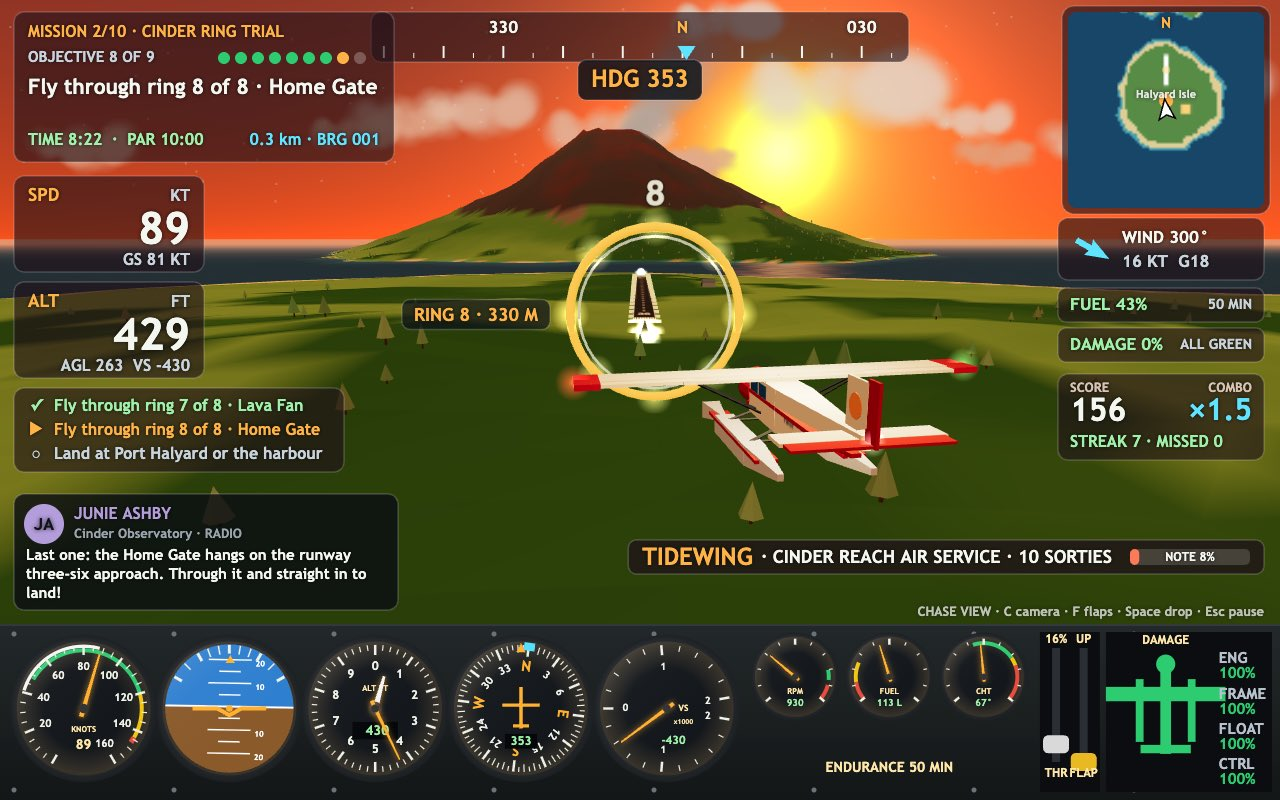
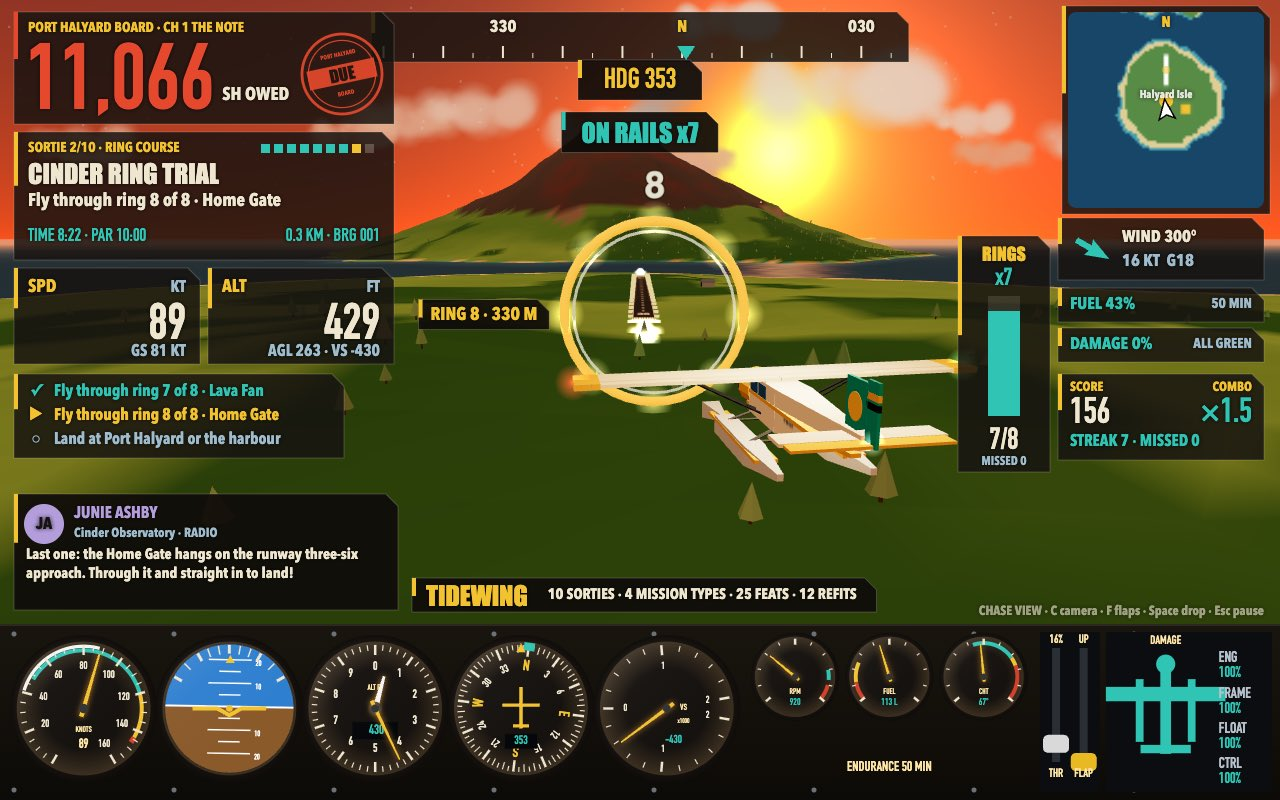
feat(sheet): cover, fire drop zone, medevac minimums and stamped receipt; README counts from data
- shots.json: four real renders, each a different mission type, every cell with a 84-104 px headline
- README rewritten; its counts line is written by tools/readmeCounts.mjs and checked by a test
- float hiss on the water, low-fuel chime, BINGO FUEL call

diff --git a/game/src/audio/soundEngine.js b/game/src/audio/soundEngine.js
@@ -1,5 +1,6 @@
 // All sound is made in code with WebAudio: the radial engine's drone and its rough
-// running, rushing wind that rises with airspeed, the stall horn, rain, the radio blip,
+// running, rushing wind that rises with airspeed, the float hiss on the water, the stall
+// horn, a low-fuel chime, rain, the radio blip,
 // splashes and thumps on touchdown, the ring chime and the crash. Starts on first input.
 
 export function makeSoundEngine() {
@@ -55,7 +56,17 @@ export function makeSoundEngine() {
     const horn = ctx.createOscillator(); horn.type = 'square'; horn.frequency.value = 440;
     const hGain = ctx.createGain(); hGain.gain.value = 0;
     horn.connect(hGain); hGain.connect(master); horn.start();
-    nodes = { master, o1, o2, eFilter, eGain, wFilter, wGain, hGain, lfo };
+    // float hiss: low noise that rises while the floats run on the water
+    const fSrc = ctx.createBufferSource();
+    fSrc.buffer = noiseBuffer(ctx, 2);
+    fSrc.loop = true;
+    const fFilter = ctx.createBiquadFilter();
+    fFilter.type = 'lowpass';
+    fFilter.frequency.value = 500;
+    const fGain = ctx.createGain(); fGain.gain.value = 0;
+    fSrc.connect(fFilter); fFilter.connect(fGain); fGain.connect(master);
+    fSrc.start();
+    nodes = { master, o1, o2, eFilter, eGain, wFilter, wGain, hGain, lfo, fGain, fFilter };
   };
 
   function burst(duration, freq, gain, type = 'lowpass') {
@@ -101,6 +112,12 @@ export function makeSoundEngine() {
     nodes.wGain.gain.setTargetAtTime(Math.min(0.35, (v / 60) ** 2 * 0.3), t, 0.15);
     nodes.wFilter.frequency.setTargetAtTime(300 + v * 22, t, 0.2);
     nodes.hGain.gain.setTargetAtTime(!paused && ac.stallWarn ? 0.06 : 0, t, 0.03);
+    const onWater = !paused && ac.onSurface && ac.surfaceKind === 'water';
+    nodes.fGain.gain.setTargetAtTime(onWater ? Math.min(0.4, ac.gs / 30 * 0.4) : 0, t, 0.08);
+    nodes.fFilter.frequency.setTargetAtTime(300 + (ac.gs ?? 0) * 25, t, 0.1);
+    // low fuel: a soft double chime every eight seconds while under 15%
+    const low = !paused && ac.fuel && ac.fuel.litres / ac.fuel.capacity < 0.15;
+    if (low && t - (se.lastChime ?? -99) > 8) { se.lastChime = t; tone(990, 0.18, 0.07); tone(740, 0.25, 0.07, 'sine', 0.2); }
   };
 
   se.event = (type) => {

diff --git a/game/src/feedback/liveCalls.js b/game/src/feedback/liveCalls.js
@@ -22,6 +22,8 @@ const MINIMUMS_FT = 300;
 /** Distance (m) to a fire, closing with water aboard, where the drop cue shows; and drop now. */
 const DROP_CUE_M = 450;
 const DROP_NOW_M = 120;
+/** Fuel share of the tank under which the bingo call shows. */
+const BINGO_FRAC = 0.15;
 
 /** The counters the feats read, kept on the mission. */
 export function newCallStats() {
@@ -101,6 +103,8 @@ export function callsFor(ms, ap) {
     const ball = slip < SLIP_CENTRED ? 'SLIP CENTERED' : `SLIP ${slip.toFixed(0)}° · RUDDER ${ac.beta > 0 ? 'RIGHT' : 'LEFT'}`;
     out.push({ text: `${slip < SLIP_CENTRED ? 'CLEAN TURN' : 'TURNING'} · ${Math.round(bank)}° BANK · ${ball}`, tone: slip < SLIP_CENTRED ? 'good' : 'warn' });
   }
+  const fuel = ac.fuel.litres / ac.fuel.capacity;
+  if (fuel < BINGO_FRAC) out.push({ text: `BINGO FUEL · ${Math.round(fuel * 100)}% · LAND AT THE NEAREST WATER`, tone: 'warn' });
   if (ms.score.ringStreak >= 2) out.push({ text: `ON RAILS x${ms.score.ringStreak}`, tone: 'good' });
   if (st.flashText && ms.t < st.flashUntil) out.push({ text: st.flashText, tone: 'good' });
   return out;

diff --git a/game/src/story/counts.js b/game/src/story/counts.js
@@ -25,3 +25,9 @@ export function scopeLine(missions) {
   const n = shipCounts(missions);
   return `${n.sorties} SORTIES · ${n.missionTypes} MISSION TYPES · ${n.feats} FEATS · ${n.refits} REFITS`;
 }
+
+/** The README's counts line, written by tools/readmeCounts.mjs. */
+export function readmeCountsLine(missions) {
+  const n = shipCounts(missions);
+  return `**${scopeLine(missions)}** · ${n.chapters} chapters · ${n.islands} islands`;
+}

diff --git a/README.md b/README.md
@@ -2,23 +2,42 @@
 [![rank](https://make.fun/badge/best-flight-game-20261126-0057/deranalabs/flight-game-20261126/rank.svg)](https://make.fun/bounty/best-flight-game-20261126-0057/leaderboard?utm_source=github&utm_medium=readme&utm_campaign=best-flight-game-20261126-0057)
 [![reward](https://make.fun/badge/best-flight-game-20261126-0057/deranalabs/flight-game-20261126/reward.svg)](https://make.fun/bounty/best-flight-game-20261126-0057?utm_source=github&utm_medium=readme&utm_campaign=best-flight-game-20261126-0057)
 
-# Tidewing: Cinder Reach Air Service
+# Tidewing: Port Halyard Air Service
 
-A bush floatplane flight game in the browser. You fly the Tern Mk II, an amphibious high-wing floatplane, for the islands of the Cinder Reach: a volcano, a ridge island, fishing villages, a lighthouse point and a far skerry, with a runway, a dirt strip on a ridge and marked water lanes.
+A floatplane pilot owes the Port Halyard Board 12,000 sh and flies contracts across the Cinder Reach to clear it before the season closes.
 
-Ten sorties, one file each under `game/src/missions/`: a mail drop run, a ring trial around the volcano, a medevac with soft-landing limits and a patient who feels every bump, a 380 m ridge strip, water bombing three spreading fires from a lagoon scoop run, a night lighthouse run through flare gates, a squall-line crossing on low fuel with an optional fuel stop, a dead-stick glide after the engine chokes on volcanic ash, a harbour board photo survey over the observatory, dock and fuel barge, and a low buoy slalom off Halyard Harbour.
+<!-- counts: written by `node tools/readmeCounts.mjs` from the game's own data; a test checks them -->
+**10 SORTIES · 4 MISSION TYPES · 25 FEATS · 12 REFITS** · 4 chapters · 6 islands
+<!-- /counts -->
 
-The flight model (`game/src/flight/flightModel.js`) has lift with a stall and wing drop, induced and parasite drag, flaps, thrust that fades with speed, control authority that grows with airspeed and prop wash, wind with gusts, storm downdrafts and rotor off the volcano, float and wheel contact with water, runways and strips, bounces, and touchdowns graded by sink rate, centreline and bounces. Crashes say what happened. Fuel burns by throttle, the engine heats and can be hurt, and damage to the engine, airframe, floats and controls changes the handling.
+A bush floatplane flight game in the browser, built on three.js. You fly the Tern Mk II, an amphibious high-wing floatplane, over the islands of the Cinder Reach: a volcano, a ridge island, fishing harbours, a lighthouse point and a far skerry, with a runway, a ridge strip and marked water lanes.
 
-Every sortie is scored out of 1000 from four lines: objectives cleared, the touchdown (sink rate, centreline, bounces), time against par and fuel left, and graded A to F. A run of sorties graded B or better builds a combo multiplier (×1.5, ×2, up to ×3); a crash or a grade below B resets it. Score and combo show live in the HUD. After every sortie a debrief shows the grade, the score lines, the combo, a chart of altitude and airspeed over the flight and one line on what to improve; Enter goes back to the hangar.
+## What ships
 
-The story: the air service owes the Harbour Board 12,000 shillings, and the Board credits one shilling per score point of every completed sortie. The note shows as a debt bar on the title, the hangar and board, the debrief and the in-flight title strip, across three chapters (sorties 1-3, 4-7, 8-10), with a short ending when it is paid. The look is warm dusk throughout, with the wordmark "TIDEWING · CINDER REACH AIR SERVICE" and an amber sun on the Tern's fin.
+- **Mission types, each with its own HUD panel.** Ring courses (a ring counter and streak), fire and drop runs (a drop meter, a DROP ZONE cue, fires out n/m), precision landings (a sink meter, PAPI lights, a glideslope ladder and MINIMUMS callouts), and cargo and survey hauls (the load and stops). The sorties live one per file under `game/src/missions/`.
+- **The Harbour Board story** (`game/src/story/storyline.js`). Its chapters are laid over the real sortie count: THE NOTE, THE WORK, THE SQUEEZE and THE RECKONING. Each sortie is a contract for a named person on a named island. A chapter plate opens every sortie, and the clerk's notice is read on the radio. In chapter 3 the Board raises its fee, and one contract makes you choose between the Board's charter and the clinic's spare parts; the choice changes the debt. The last sortie stamps one of three endings on the final receipt: PAID, PART-PAID with an extension, or UNPAID with a lien on the Tern.
+- **The ledger** (`game/src/hangar/harbourDebt.js`). Every completed sortie pays one shilling per score point. Events add a bonus, and refits and the fee are charged. Every entry is kept.
+- **Score, combo and debrief.** A sortie is scored out of 1000 from four parts: objectives, touchdown, time against par and fuel left. It is graded A to F. B-or-better runs build a combo of up to ×3. The debrief is a stamped receipt. It shows the grade, the score lines, a four-strip flight recorder (altitude, speed, fuel, load factor on one time axis, with the touchdown marked), one tip, the feats earned and three refit cards.
+- **Feats and refits.** Feats carry medals and counters (`game/src/hangar/feats.js`), and refits change the numbers the flight model flies (`game/src/hangar/refits.js`, `game/src/aircraft/ternSpec.js`).
+- **Live calls** (`game/src/feedback/liveCalls.js`). These answer the flying as it happens: CLEAN TURN · 37° BANK · SLIP CENTERED, ON RAILS x8, FLAPS 40 · 2 WHITE · ON SLOPE, MINIMUMS · LAND, DROP ZONE 330 M, speed band awards and BINGO FUEL.
+- **A living world.** The gazetteer (`game/src/world/gazetteer.js`) lists each island's harbour, trade, landmark, custom and history. The people (`game/src/world/cast.js`) have moods and wants that change with the chapter. Events (`game/src/world/events.js`) include a squall front, an ash plume, regatta day and a ferry strike. Around the aircraft, fishing boats work the lanes, the ferry keeps its timetable, gulls wheel off the coast, windsocks swing with the real wind, quay lamps light at dusk, and the volcano smokes harder as the chapters turn.
+- **Flight model** (`game/src/flight/flightModel.js`). It covers lift with a stall and wing drop, drag, flaps, prop thrust, wind with gusts, rotor and downdrafts, float and wheel contact, bounces, graded touchdowns, fuel burn, engine heat and damage that changes the handling.
+- **Controls.** Keyboard, mouse yoke or a gamepad. The title screen sets the assist level: Easy gives auto rudder and a stall nudge, Standard flies the Tern as she is, and Expert has no hints and no autopilot. Key hints show for the first minute of a sortie. Press C to cycle the chase, cockpit and tail views.
+- **Identity** (`game/src/identity/palette.js`, `docs/identity.md`). There is one palette: basalt, sulphur, lagoon teal and ledger cream, with ember red for the debt only. The game uses one display face and one numeral face, and one panel shape from `box()`. The Board's round DUE / PAID stamp appears on the screens, and the Tern has a teal fin with a sulphur sun.
 
-Around the flights: a hangar with repairs and upgrades that cost shillings, a pilot's logbook with ratings and stars, seven radio characters with live states, and a career saved in the browser. Chase and cockpit views, a lit instrument panel (airspeed, attitude, altimeter, heading, vertical speed, RPM, fuel, cylinder temperature, levers, warning lights, damage), and sound made in code with WebAudio.
+## Play
 
-Play it with `node serve.ts` and open http://localhost:8080. Keys: W/S pitch, A/D roll, Q/E rudder, Shift/Ctrl or the wheel for throttle, F/V flaps, B brakes, Space drop, C camera, M mouse yoke, Z autopilot, R restart engine, L landing light, Esc pause.
+```bash
+node serve.ts
+```
 
-Tests: `node --test test/*.test.mjs` checks the flight model, has the autopilot fly every mission to completion, and checks score, combo and the debt (the bot's ten sorties pay off the note). Screenshots come from the game's shot mode (`?shot=cover`, `cockpit`, `debrief`, `hangar`; the bot first flies the sorties before each moment, so the scores shown are real) via `node tools/takeShots.mjs`.
+Open http://localhost:8080. Keys: W/S pitch, A/D roll, Q/E rudder, Shift/Ctrl or the wheel for throttle, F/V flaps, B brakes, Space drop, C camera, M mouse yoke, Z autopilot, R restart the engine, L landing light, Esc pause.
+
+## Tests and screenshots
+
+`node --test test/*.test.mjs` checks the flight model, the PAPI rule, the ring-miss rule, and the score and combo. It also checks the counts against the data, every story ending, the fee and the choice, the feats, the refits and the live calls. The autopilot bot flies every sortie to completion and pays off the note.
+
+The screenshots come from the game's own shot mode (`?shot=cover`, `fire`, `final`, `receipt`) through `node tools/takeShots.mjs`. The bot first flies the sorties before each moment, so the numbers in the frames are real.
 
 three.js 0.187.0 is vendored as one minified file in `game/vendor/`. Everything else is this repository's own code.
 
